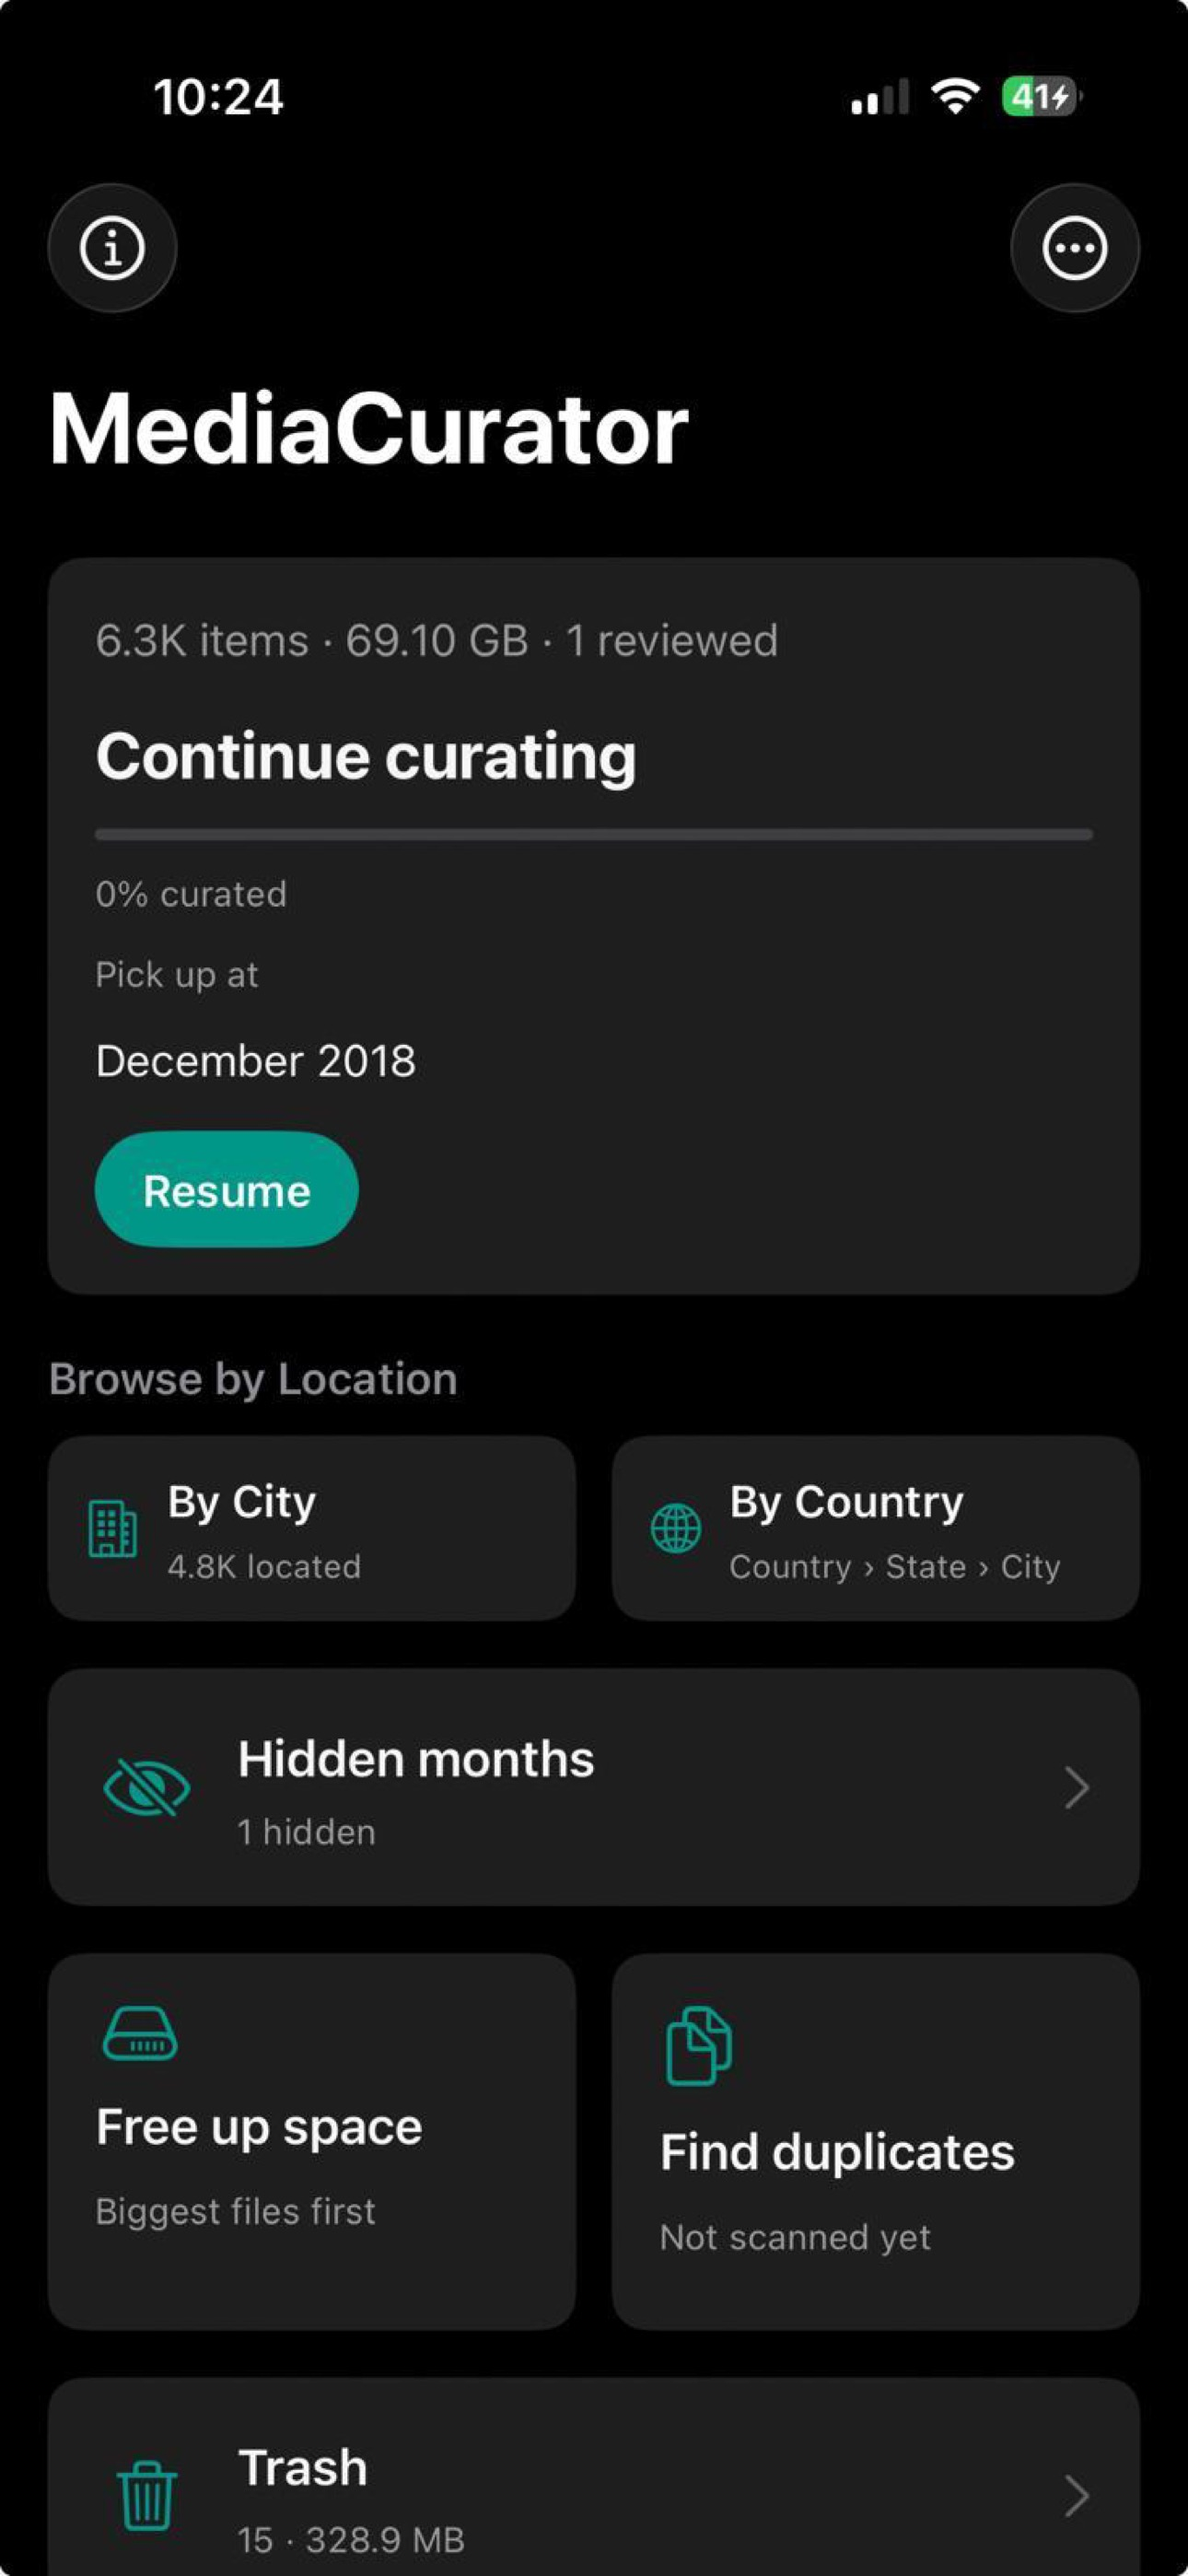
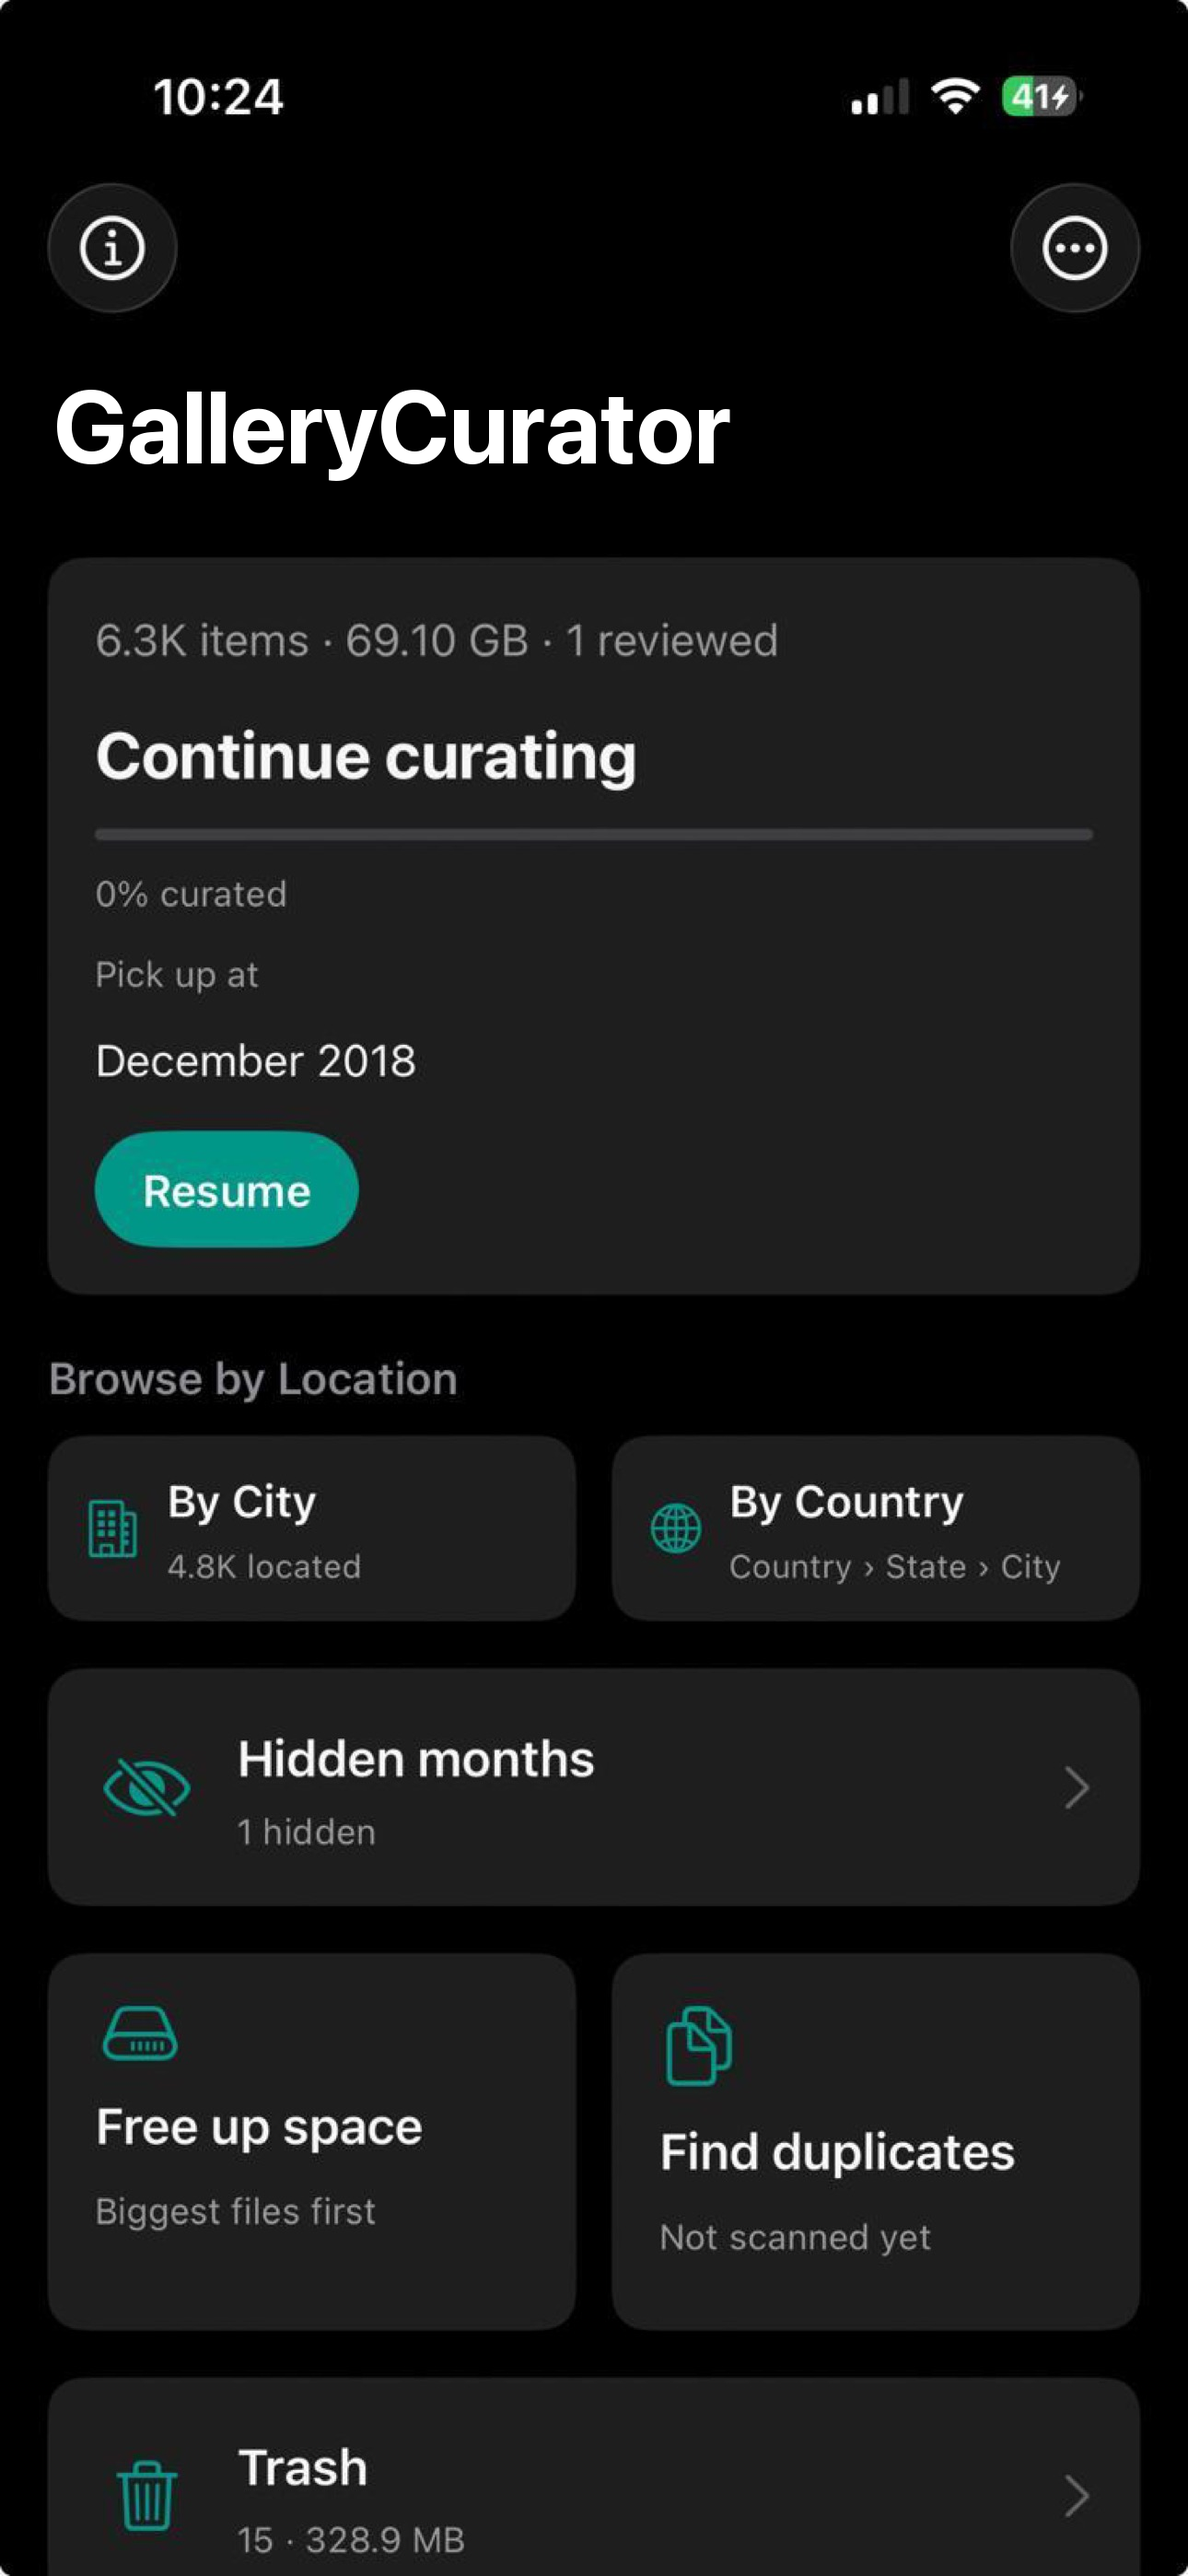
Screenshots: update Home title to GalleryCurator; SUBMISSION build 39
Font-matched title replacement on the two Home shots (iPhone dark, iPad light)
now that the app's display name is GalleryCurator.

Changed region(s): [[0.031, 0.1245, 0.6202, 0.1867]]

diff --git a/AppStore/SUBMISSION.md b/AppStore/SUBMISSION.md
@@ -1,6 +1,6 @@
 # App Store submission — step by step
 
-**Good news up front:** the binary (**build 38**) is already uploaded to App Store Connect, and
+**Good news up front:** the binary (**build 39**) is already uploaded to App Store Connect, and
 everything below is done in the **App Store Connect website** (appstoreconnect.apple.com) — from
 **any browser on any computer**. None of it needs the Mac. Losing the Mac does **not** block
 submitting.
@@ -51,7 +51,7 @@ Whichever you choose, use it consistently in the name field below.
    - **Privacy Policy URL:** `https://rao-anant.github.io/MediaCurator-iOS/`
    - **Screenshots:** drag in the files from `AppStore/screenshots/iphone/` (iPhone 6.9" slot) and
      `AppStore/screenshots/ipad/` (iPad 13" slot). Upload in the numbered order (01, 02, …).
-   - **Build:** click "＋ Build" (or the Build section) and select **build 38**.
+   - **Build:** click "＋ Build" (or the Build section) and select **build 39**.
    - **Copyright:** `2026 Anant Rao`
    - **Age Rating:** open the questionnaire, answer everything **None** → should yield **4+**.
 
@@ -76,7 +76,7 @@ Whichever you choose, use it consistently in the name field below.
 - [ ] Support + Privacy URLs (both live, verified 200)
 - [ ] iPhone 6.9" screenshots uploaded (4)
 - [ ] iPad 13" screenshots uploaded (6)
-- [ ] Build 38 selected
+- [ ] Build 39 selected
 - [ ] App Privacy = Data Not Collected, completed
 - [ ] Age rating questionnaire completed (4+)
 - [ ] Review notes added
